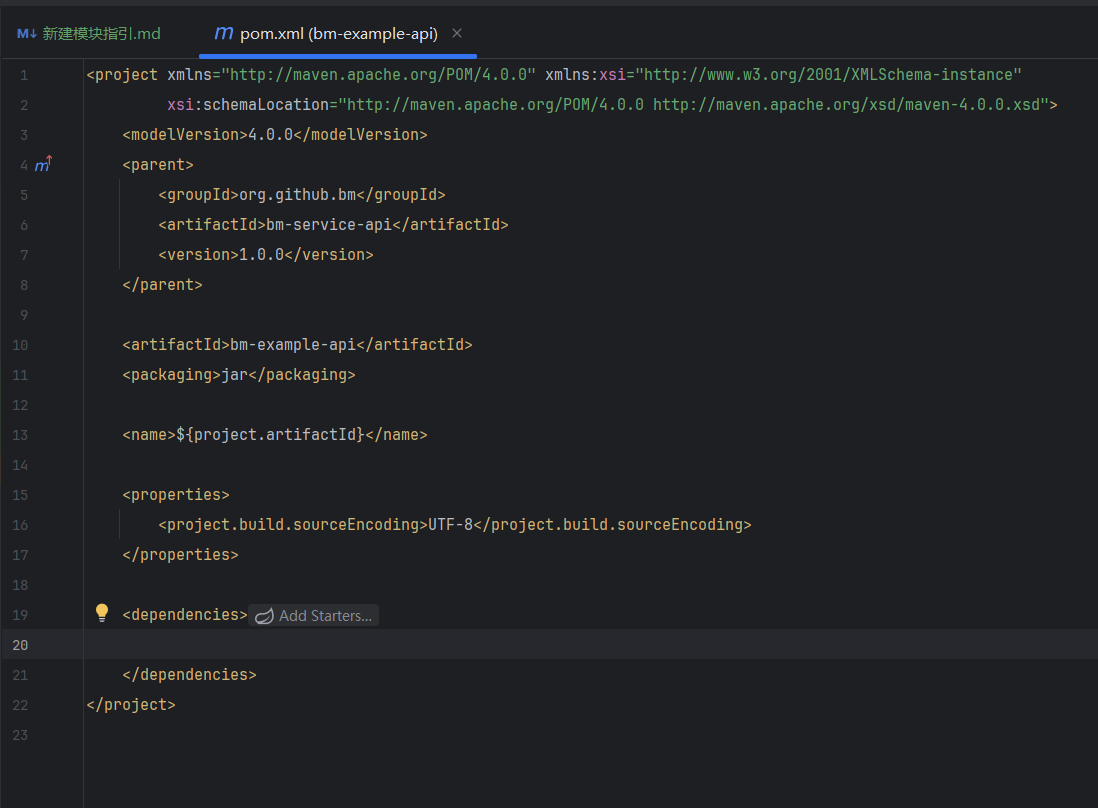
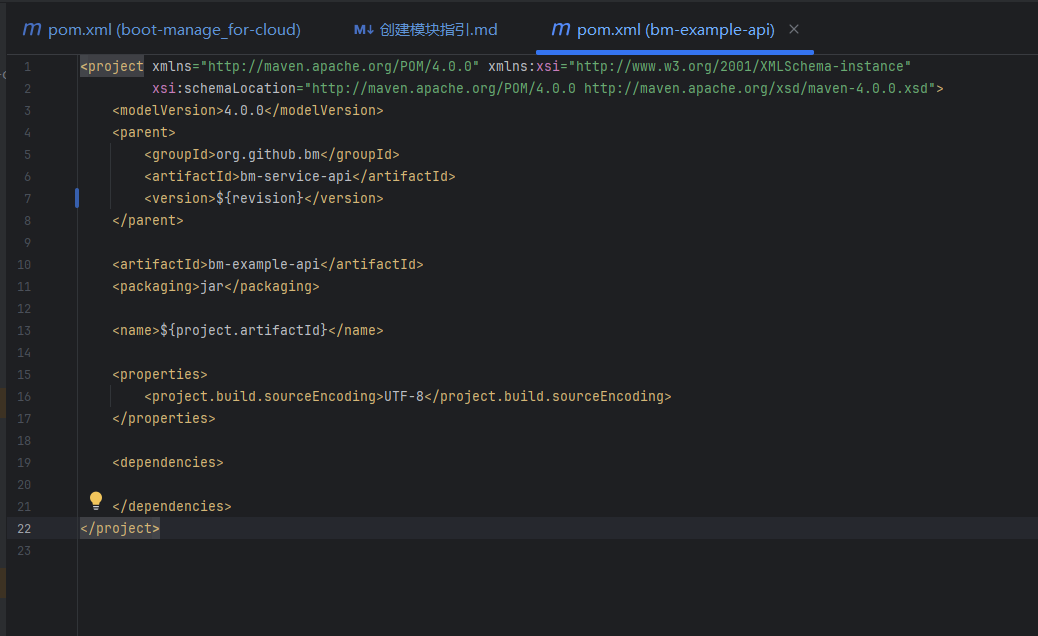
refactor(pom版本号定义): 使用${revision}统一管理版本号

diff --git a/README.md b/README.md
@@ -55,6 +55,7 @@ boot-manage admin 是一款极简风格的微服务架构后台管理模板。
 - 源码 Gitee: [https://gitee.com/smog_huang/boot-manage-ui_for-cloud](https://gitee.com/smog_huang/boot-manage-ui_for-cloud)
 
 ## 二、架构图
+![BM架构图.png](doc/picture/BM%E6%9E%B6%E6%9E%84%E5%9B%BE.png)
 
 ## 三、项目结构
 
